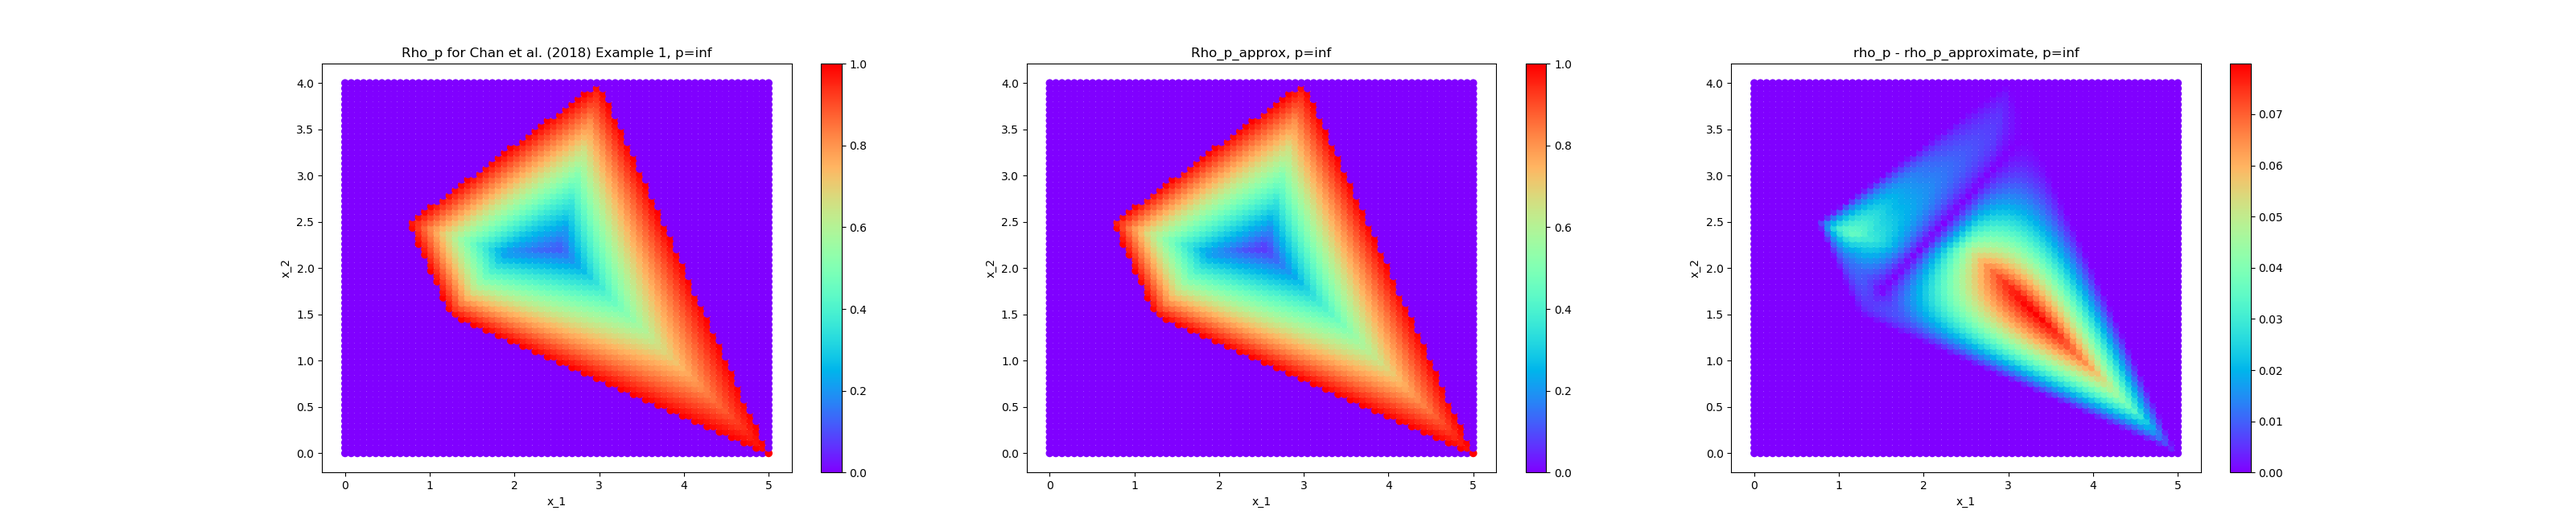
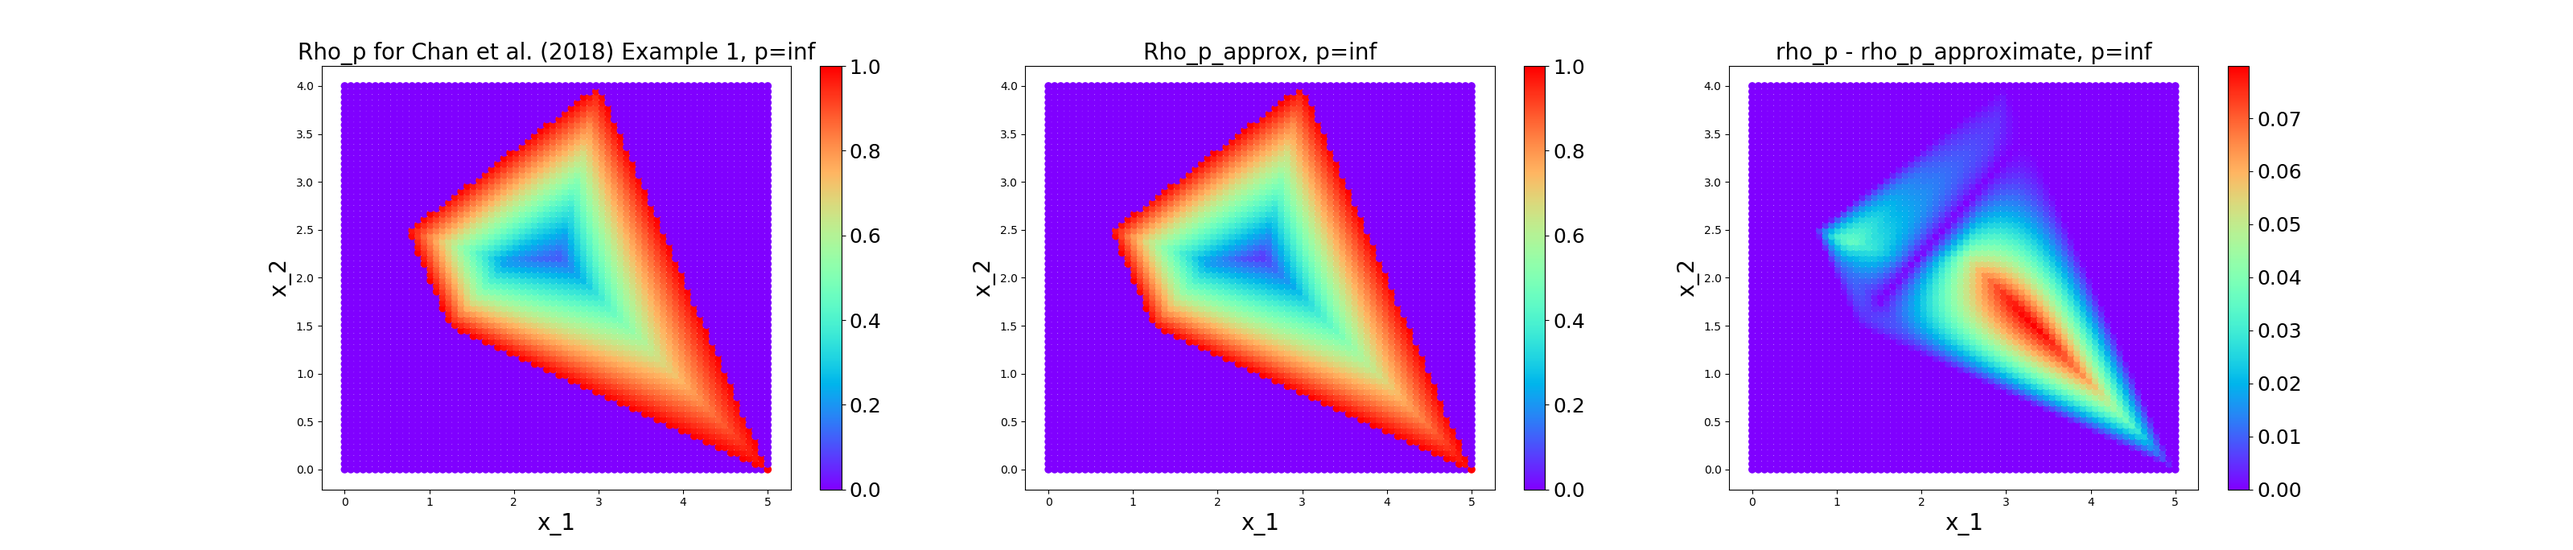
Changing font on heatmaps, adding to README, added MATLAB calculations file for rho_r validation

diff --git a/testing_rho_p.py b/testing_rho_p.py
@@ -27,7 +27,7 @@ x0 = np.array([[2.5],[3]])
 ##### Set Up #####
 time_0 = time.clock()
 density = 70
-p = 1 #for setting the norm
+p = 'inf' #for setting the norm
 half_dense = int(density/2)
 x_vals = np.linspace(0,5,density)
 y_vals = np.linspace(0,4,density)
@@ -78,28 +78,31 @@ for i in range(0,density):
 plt.subplot(131)
 colormap_option = plt.cm.get_cmap('rainbow') 
 rho_map = plt.scatter(mesh_x,mesh_y,c=mesh_z,vmin=0,vmax=1,cmap=colormap_option)
-plt.colorbar(rho_map)
-plt.xlabel('x_1')
-plt.ylabel('x_2')
-plt.title('Rho_p for Chan et al. (2018) Example 1, p=' + str(p))
+cbar = plt.colorbar(rho_map)
+cbar.ax.tick_params(labelsize=18)
+plt.xlabel('x_1',fontsize=20)
+plt.ylabel('x_2',fontsize=20)
+plt.title('Rho_p for Chan et al. (2018) Example 1, p=' + str(p),fontsize=20)
 
 plt.subplot(132)
 colormap_option = plt.cm.get_cmap('rainbow') 
 rho_map = plt.scatter(mesh_x,mesh_y,c=mesh_z_approx,vmin=0,vmax=1,cmap=colormap_option)
-plt.colorbar(rho_map)
-plt.xlabel('x_1')
-plt.ylabel('x_2')
-plt.title('Rho_p_approx, p=' + str(p))
+cbar = plt.colorbar(rho_map)
+cbar.ax.tick_params(labelsize=18)
+plt.xlabel('x_1',fontsize=20)
+plt.ylabel('x_2',fontsize=20)
+plt.title('Rho_p_approx, p=' + str(p),fontsize=20)
 
 
 plt.subplot(133)
 colormap_option = plt.cm.get_cmap('rainbow') 
 diff_max = np.amax(mesh_z-mesh_z_approx)
 rho_map = plt.scatter(mesh_x,mesh_y,c=(mesh_z-mesh_z_approx),vmin=0,vmax=diff_max,cmap=colormap_option)
-plt.colorbar(rho_map)
-plt.xlabel('x_1')
-plt.ylabel('x_2')
-plt.title('rho_p - rho_p_approximate, p=' + str(p))
+cbar = plt.colorbar(rho_map)
+cbar.ax.tick_params(labelsize=18)
+plt.xlabel('x_1',fontsize=20)
+plt.ylabel('x_2',fontsize=20)
+plt.title('rho_p - rho_p_approximate, p=' + str(p),fontsize=20)
 
 
 

diff --git a/testing_rho_a_and_rho_r.py b/testing_rho_a_and_rho_r.py
@@ -27,7 +27,7 @@ x0 = np.array([[2.5],[3]])
 ##### Set Up #####
 time_0 = time.clock()
 density = 70
-type_duality = 'r' #'a' or 'r'
+type_duality = 'a' #'a' or 'r'
 half_dense = int(density/2)
 x_vals = np.linspace(0,5,density)
 y_vals = np.linspace(0,4,density)
@@ -76,12 +76,14 @@ for i in range(0,density):
 #https://matplotlib.org/gallery/shapes_and_collections/scatter.html#sphx-glr-gallery-shapes-and-collections-scatter-py
 #https://matplotlib.org/api/_as_gen/matplotlib.pyplot.scatter.html
 
+
 colormap_option = plt.cm.get_cmap('rainbow') 
 rho_map = plt.scatter(mesh_x,mesh_y,c=mesh_z,vmin=0,vmax=1,cmap=colormap_option)
-plt.colorbar(rho_map)
-plt.xlabel('x_1')
-plt.ylabel('x_2')
-plt.title('Rho_p for Chan et al. (2018) Example 1, duality=' + type_duality)
+cbar = plt.colorbar(rho_map)
+cbar.ax.tick_params(labelsize=18)
+plt.xlabel('x_1',fontsize=20)
+plt.ylabel('x_2',fontsize=20)
+plt.title('Rho_p for Chan et al. (2018) Example 1, duality=' + type_duality,fontsize=20)
 
 print("Run time (seconds) for the script: ")             
 time_1 = time.clock() - time_0

diff --git a/Checking_rho_r.m b/Checking_rho_r.m
@@ -1,0 +1,31 @@
+%%%Validation of the calculate_rho_r method for
+%%%the GIO class
+
+x0_1 = [3,2]';
+x0_2 = [4,1]';
+x0_3 = [2,2]';
+
+rho_r_1 = 1 - (abs([-2,-1]*x0_1*(1/-10) - 1)/...
+    calculating_denom(x0_1));
+%%%rho_r_1 = 0.7143
+
+rho_r_2 = 1 - (abs([-2,-1]*x0_2*(1/-10) - 1)/...
+    calculating_denom(x0_2));
+%%%rho_r_2 = 0.8852
+
+rho_r_3 = 1 - (abs([2,5]*x0_3*(1/10) - 1)/...
+    calculating_denom(x0_3));
+%%%rho_r_3 = 0.1864
+
+
+function denom = calculating_denom(x0)
+
+denom = abs([2,5]*x0*(1/10) - 1) +...
+    abs( [2,-3]*x0*(1/-6) - 1) +...
+    abs( [2,1]*x0*(1/4) - 1) +...
+    abs( [-2,-1]*x0*(1/-10) - 1);
+
+denom = denom*(1/4);
+
+end
+
